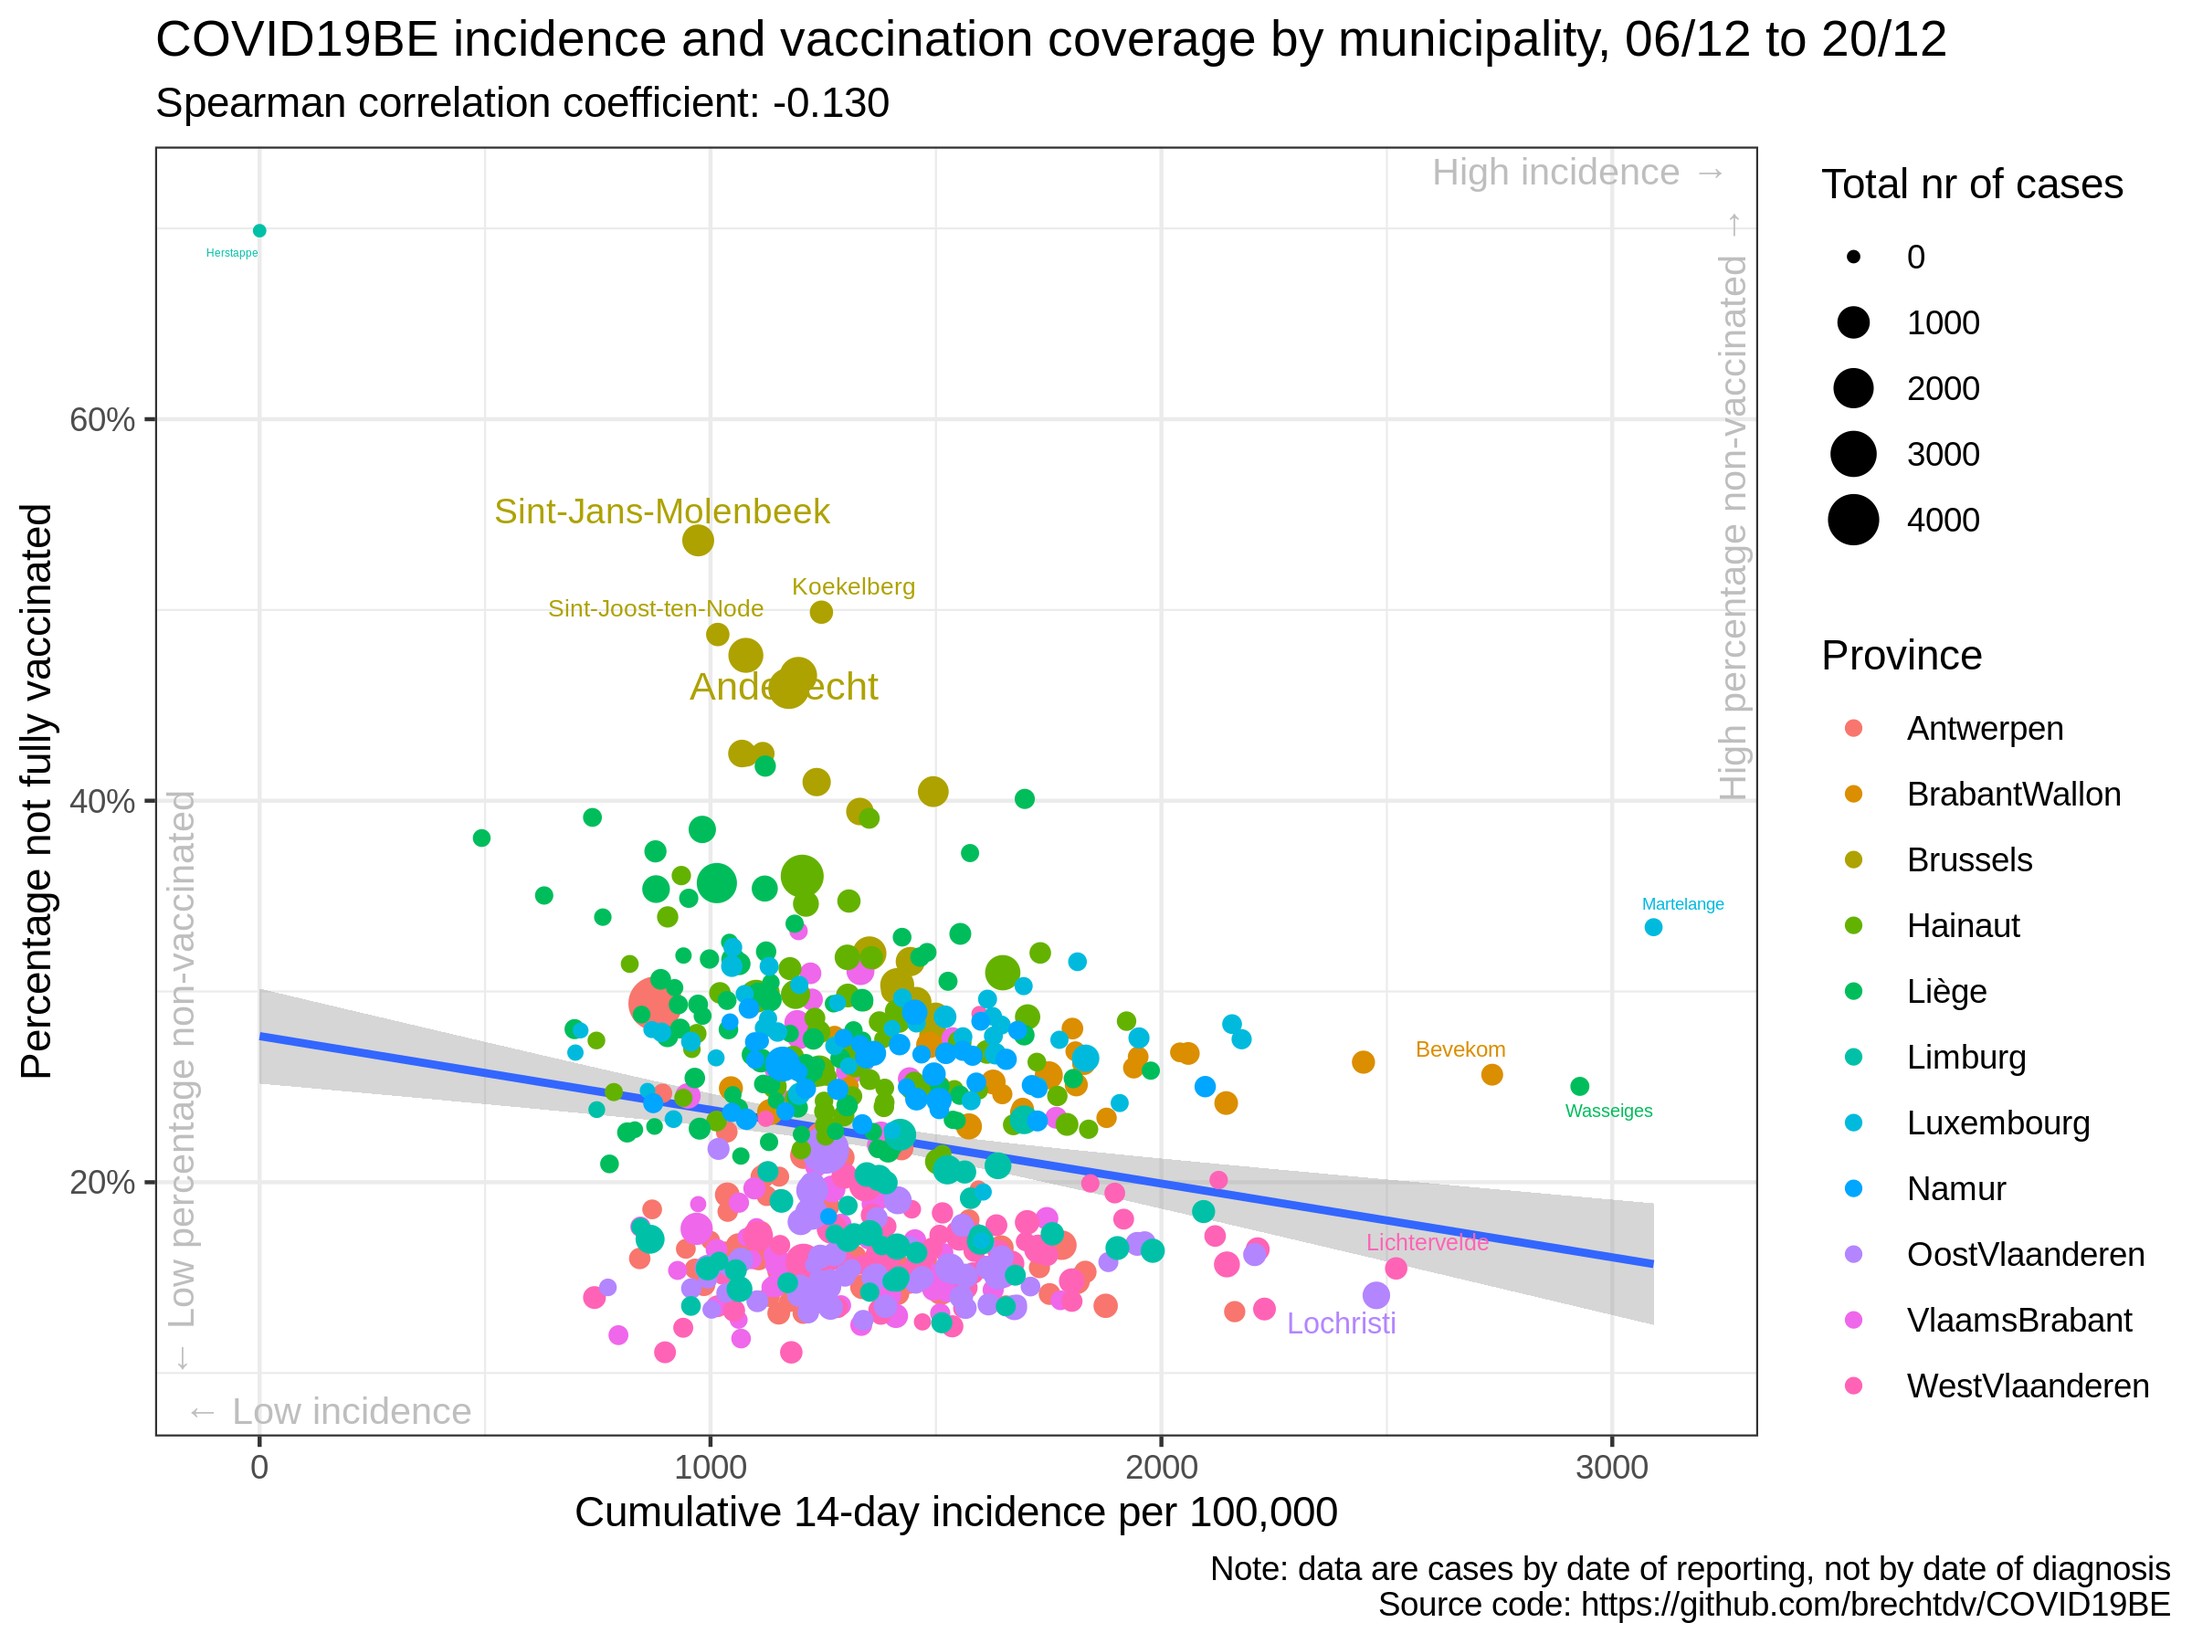
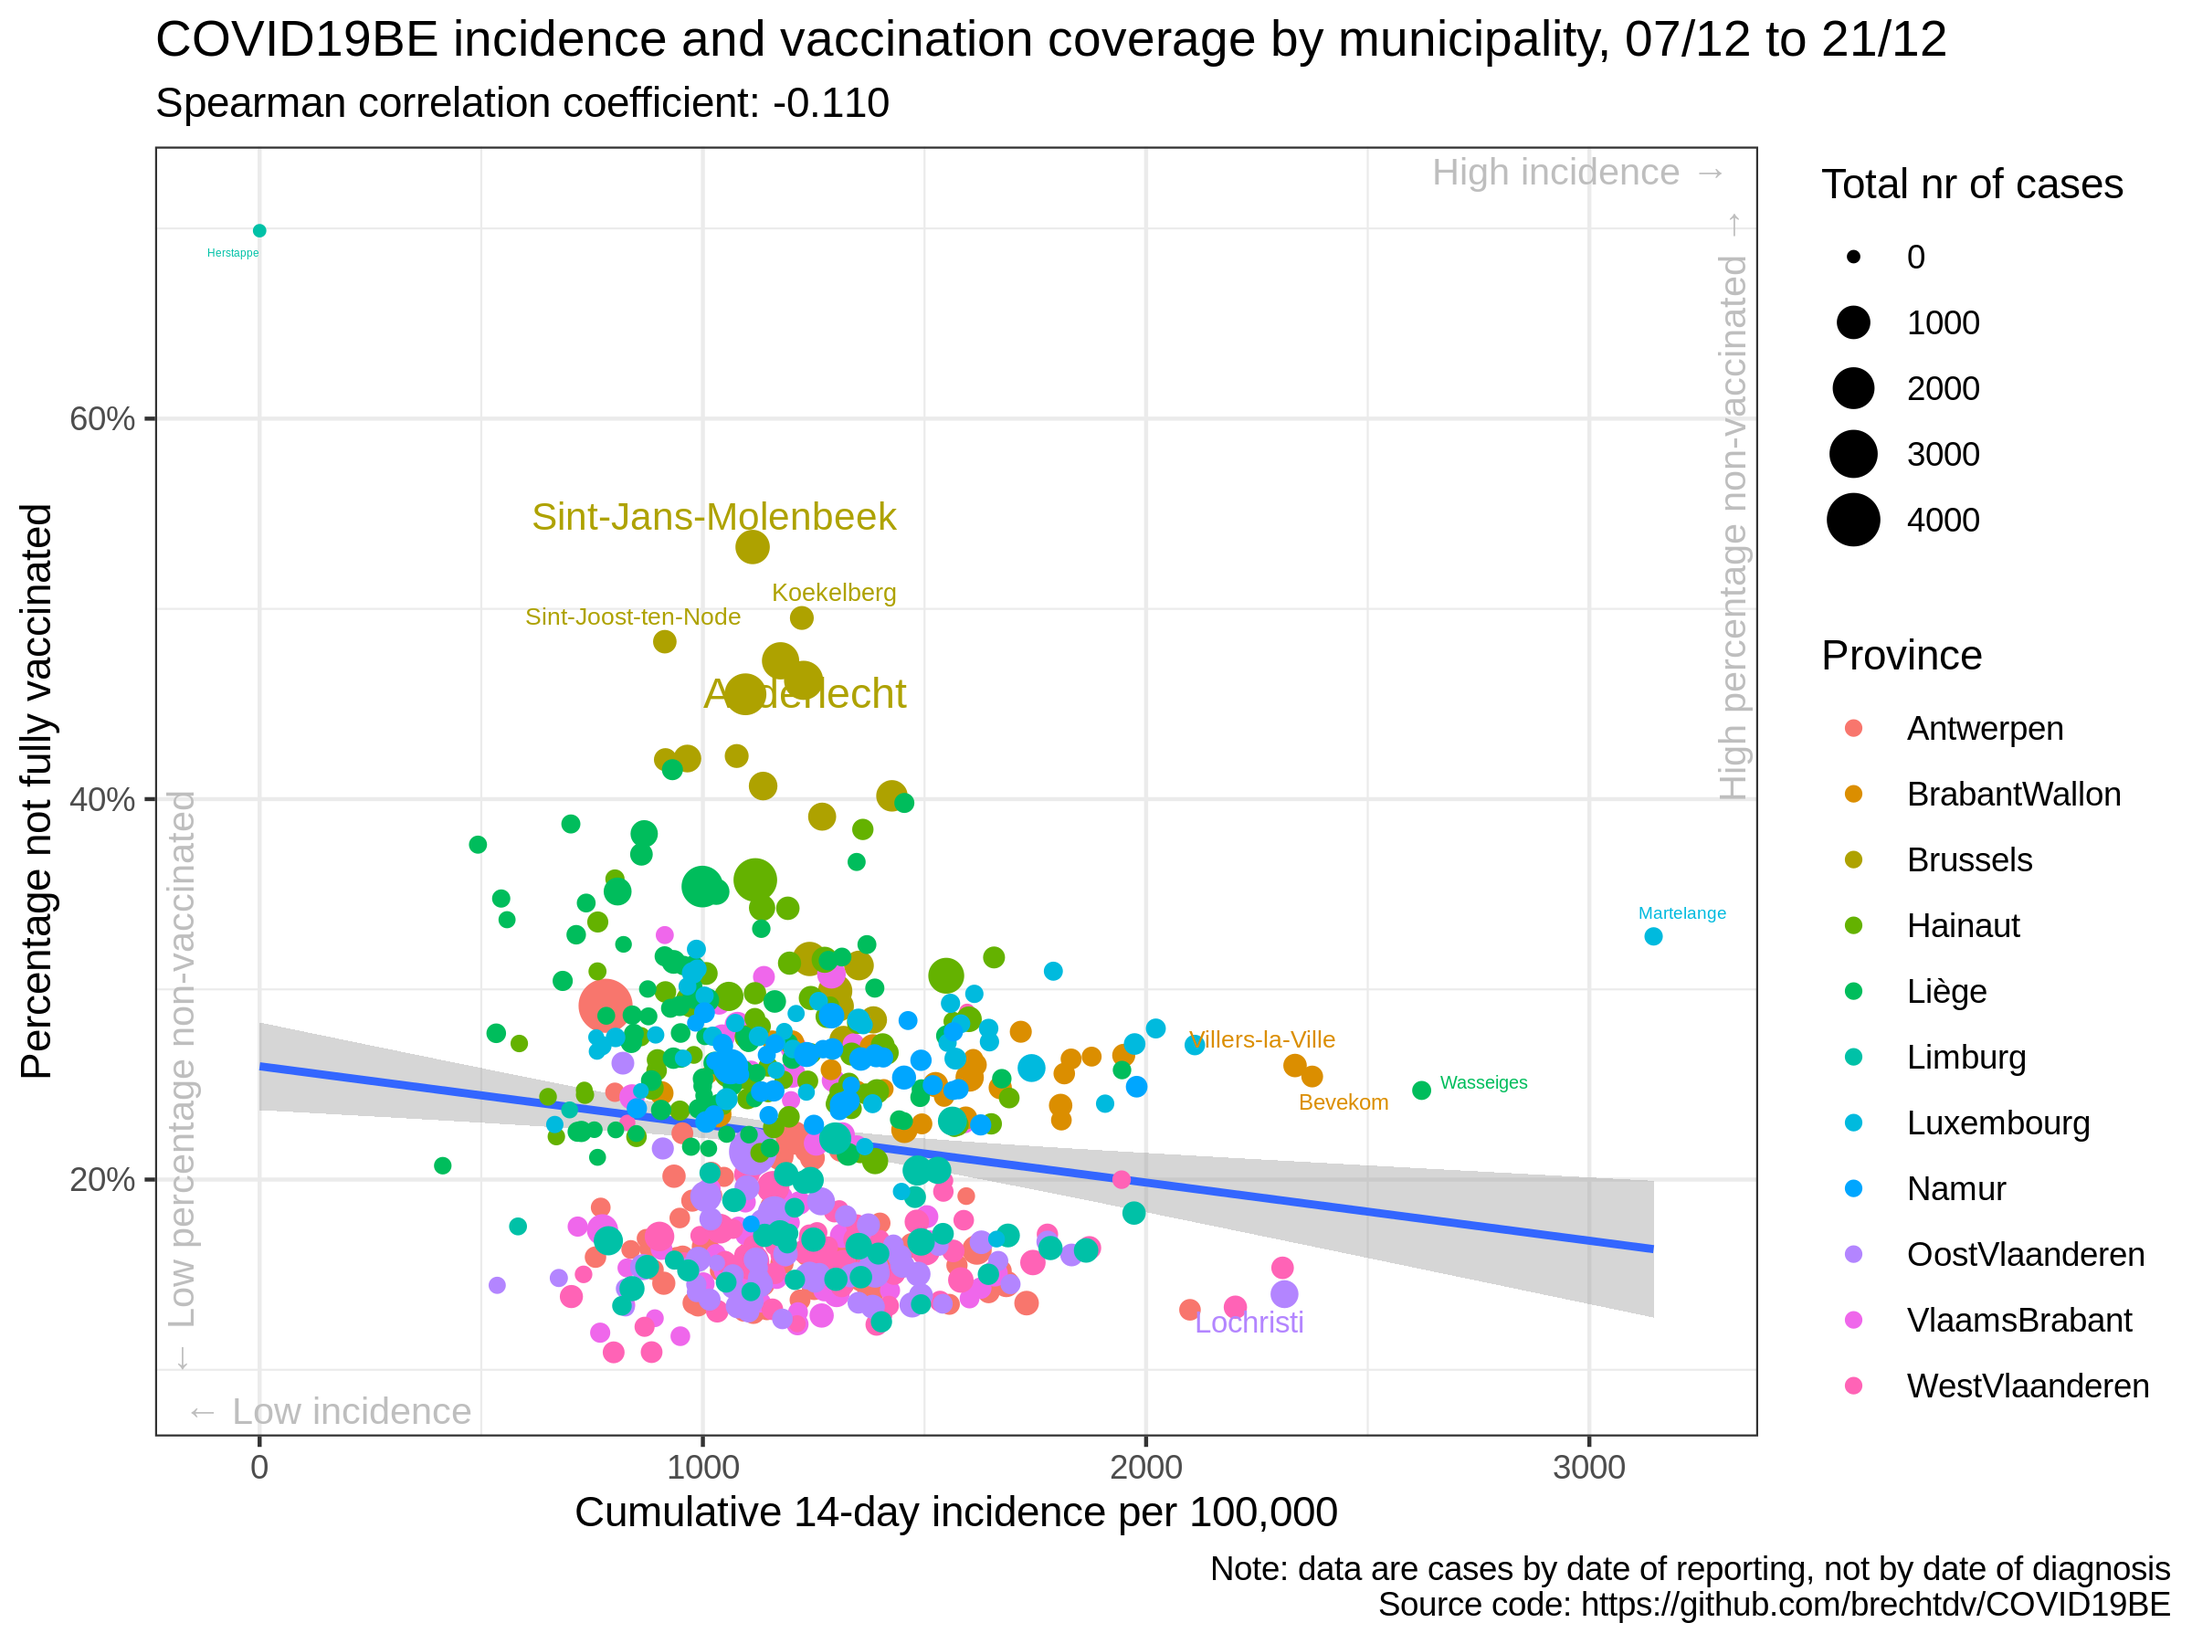
update situation

diff --git a/vaccination/README.md b/vaccination/README.md
@@ -13,18 +13,18 @@
 
 |                | estimate.rho | p.value |
 | :------------- | -----------: | ------: |
-| Antwerpen      |      \-0.296 |   0.014 |
-| BrabantWallon  |        0.115 |   0.567 |
-| Brussels       |      \-0.856 |   0.000 |
-| Hainaut        |      \-0.211 |   0.082 |
-| Liège          |      \-0.244 |   0.026 |
-| Limburg        |      \-0.010 |   0.952 |
-| Luxembourg     |        0.007 |   0.963 |
-| Namur          |        0.014 |   0.932 |
-| OostVlaanderen |        0.019 |   0.886 |
-| VlaamsBrabant  |      \-0.013 |   0.918 |
-| WestVlaanderen |        0.221 |   0.079 |
-| Belgium        |      \-0.130 |   0.002 |
+| Antwerpen      |      \-0.338 |   0.005 |
+| BrabantWallon  |        0.164 |   0.411 |
+| Brussels       |      \-0.726 |   0.001 |
+| Hainaut        |      \-0.083 |   0.497 |
+| Liège          |      \-0.202 |   0.066 |
+| Limburg        |        0.030 |   0.852 |
+| Luxembourg     |        0.001 |   0.993 |
+| Namur          |      \-0.024 |   0.888 |
+| OostVlaanderen |        0.015 |   0.912 |
+| VlaamsBrabant  |        0.037 |   0.770 |
+| WestVlaanderen |        0.165 |   0.192 |
+| Belgium        |      \-0.110 |   0.008 |
 
 ### Data source
 
